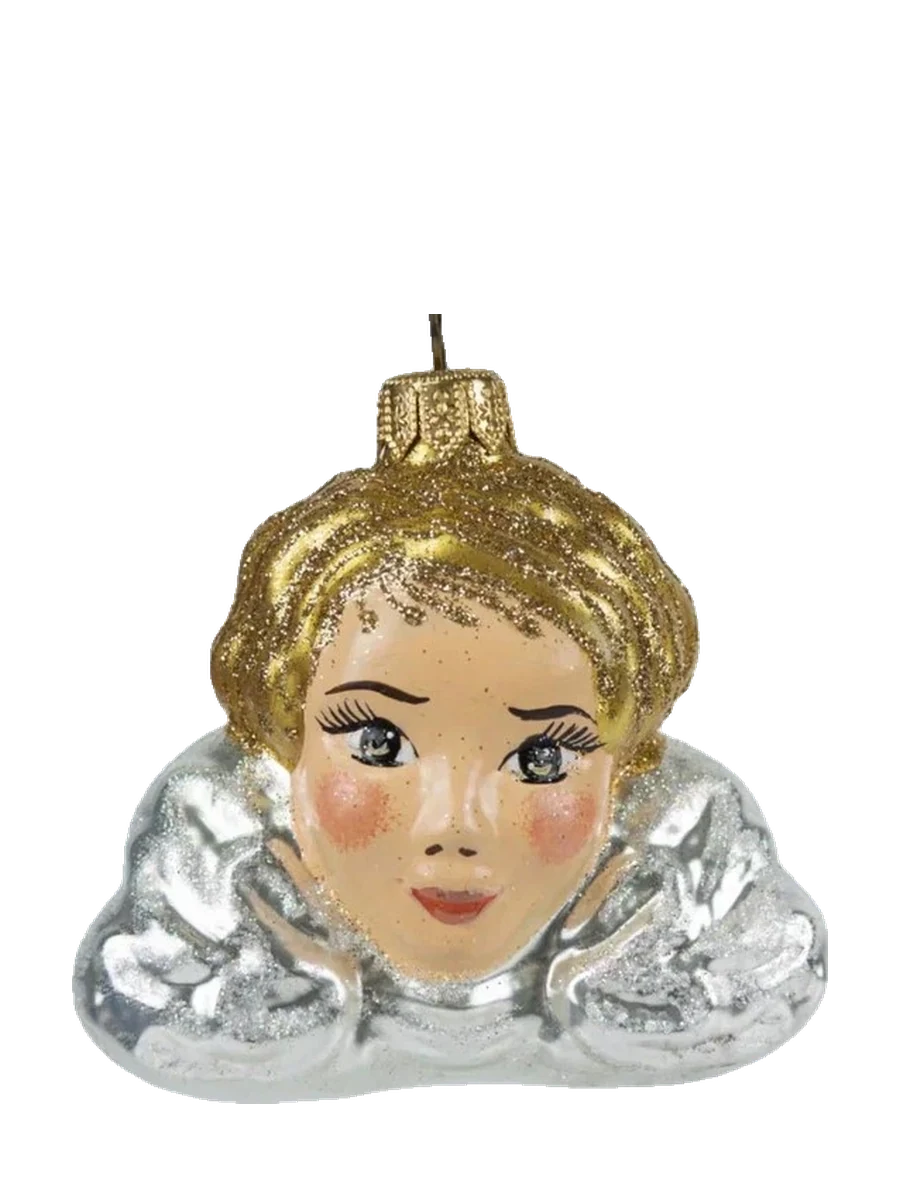
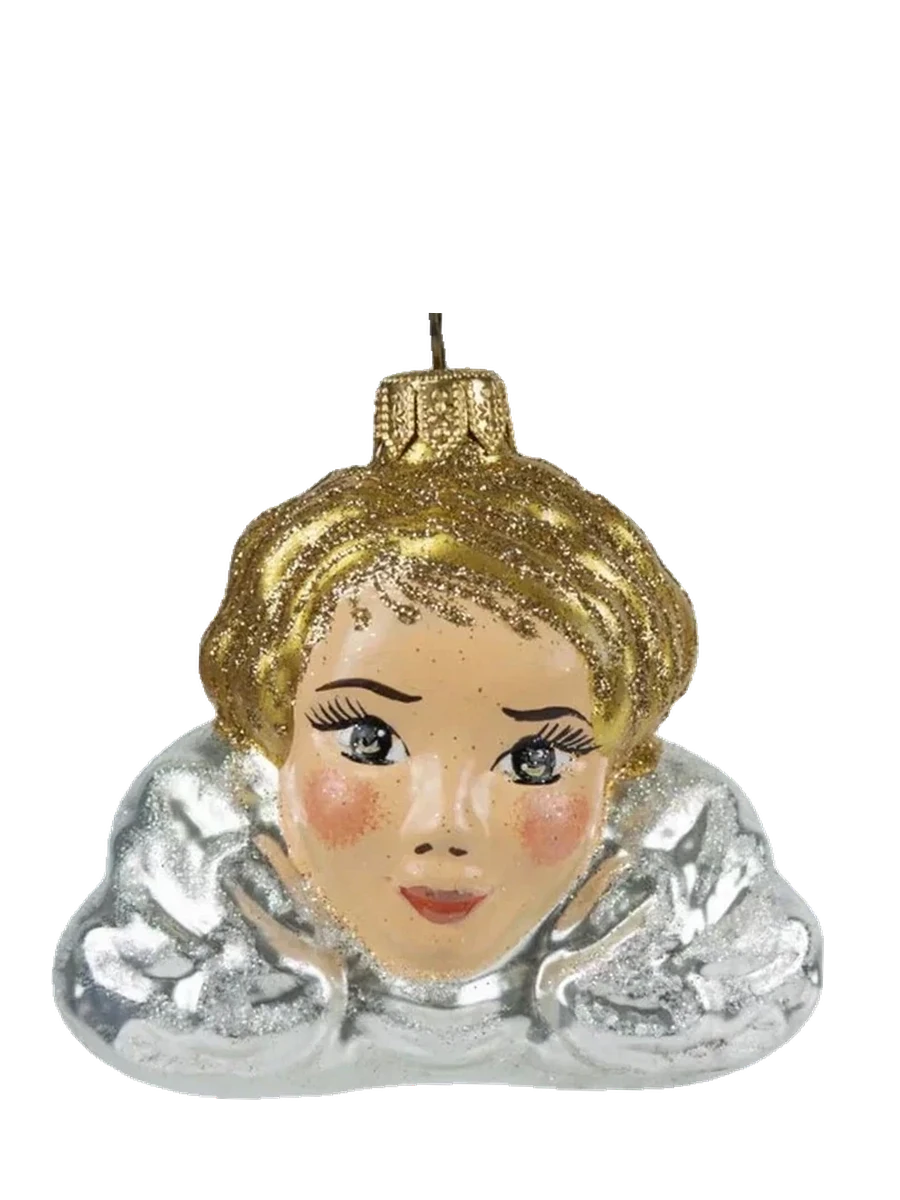
Обновление 06.10 17:36 МСК

Changed region(s): [[0.0311, 0.2775, 0.9333, 0.925]]

diff --git a/index.html b/index.html
@@ -28,7 +28,7 @@
 <link rel="preconnect" href="https://fonts.googleapis.com">
 <link rel="preconnect" href="https://fonts.gstatic.com" crossorigin>
 <link rel="stylesheet" href="https://fonts.googleapis.com/css2?family=Alegreya+Sans:wght@400;600;700&family=Nunito+Sans:wght@400;600&display=swap">
-<link rel="stylesheet" href="style.css?v=0610g">
+<link rel="stylesheet" href="style.css?v=0610h">
 <style>
 :root {
   --шрифт-заголовков: 'Alegreya Sans', 'Segoe UI', sans-serif;  --шрифт-текста: 'Nunito Sans', -apple-system, 'Segoe UI', sans-serif;
@@ -107,7 +107,7 @@
 </script>
 </head>
 <body class="с-липкой-кнопкой">
-<style id="первый-экран-правки">.шапка{height:4.25rem!important}.шапка__лого img{width:auto!important;height:3.25rem!important;border-radius:0!important;box-shadow:none!important;object-fit:contain}@media(min-width:900px){.шапка{height:5rem!important}.шапка__лого img{height:4rem!important}}.карточка__опоры li b{display:block;font:700 1.9em/1.05 var(--шрифт-заголовков);color:var(--цвет-тёплый);margin-bottom:.2em}.карточка__опоры li span{display:block}@media(min-width:900px){#экран-1 .первый-экран__регалии{top:38.5rem!important;bottom:auto!important;right:auto!important;left:clamp(2rem,9vw,11rem)!important;width:auto!important;max-width:34em;background:none!important;border:0!important;box-shadow:none!important;backdrop-filter:none!important;padding:0!important;animation:none!important;transform:none!important}#экран-1 .карточка__имя,#экран-1 .карточка__роль{display:none!important}#экран-1 .карточка__опоры{margin:0!important;gap:2.5em!important;font-size:.9em!important}}#экран-1 .картинка--сцена img{object-fit:cover!important;object-position:center 30%!important;animation:none!important;transform:none!important}@media(max-width:899px){#экран-1 .картинка--сцена::after{display:none!important}#экран-1 .картинка--сцена img{-webkit-mask-image:linear-gradient(to bottom,#000 42%,transparent 76%);mask-image:linear-gradient(to bottom,#000 42%,transparent 76%)}}@media(min-width:900px){.шапка{height:6.5rem!important}.шапка__лого img{height:5.5rem!important}.шапка__лого{font-size:1.1em!important}#экран-1{align-items:flex-start!important;padding-top:10.5rem!important}#экран-1 .картинка--сцена::after{background:linear-gradient(to right,color-mix(in srgb,var(--цвет-тёмный-фон) 92%,transparent) 0%,color-mix(in srgb,var(--цвет-тёмный-фон) 60%,transparent) 42%,transparent 56%)!important}#экран-1 .картинка--сцена picture{display:flex!important;justify-content:center;align-items:center;width:100%!important;height:100%!important;box-sizing:border-box;padding:calc(6.5rem + 2.5rem) 2.5rem 2.5rem calc(clamp(2rem,9vw,11rem) + 37rem + 2.5rem)}#экран-1 .картинка--сцена img{width:auto!important;height:auto!important;max-width:100%!important;max-height:100%!important;min-width:0;min-height:0;object-fit:contain!important;-webkit-mask-image:linear-gradient(to right,transparent 0,#000 14%,#000 86%,transparent 100%),linear-gradient(to bottom,transparent 0,#000 12%,#000 88%,transparent 100%);-webkit-mask-composite:source-in;mask-image:linear-gradient(to right,transparent 0,#000 14%,#000 86%,transparent 100%),linear-gradient(to bottom,transparent 0,#000 12%,#000 88%,transparent 100%);mask-composite:intersect}}@media(min-width:900px){#экран-1 .блок__внутри{width:auto!important;margin-left:clamp(2rem,9vw,11rem)!important;margin-right:0!important}}#экран-1 .первый-экран__действие{flex-direction:column;align-items:stretch;gap:.6em}#экран-1 .кнопка--макс{color:var(--цвет-тёплый);border-color:color-mix(in srgb,var(--цвет-тёплый) 70%,transparent)}@media(min-width:900px){#экран-1 .первый-экран__действие{display:inline-flex;flex-direction:column;align-items:stretch;gap:.75em;margin-bottom:0}#экран-1{align-items:center!important;padding-top:6.5rem!important;padding-bottom:2rem!important}#экран-1 .первый-экран__регалии{position:static!important;top:auto!important;margin-top:2.25rem!important}}#экран-1 .картинка--сцена:not(.картинка--постер) picture{display:none!important}#экран-1 .картинка--постер .ролик-рамка{display:none!important}#экран-1 .ролик-рамка{width:100%;height:100%}#экран-1 .картинка--сцена video{object-fit:cover!important;object-position:center 30%!important}@media(max-width:899px){#экран-1 .картинка--сцена video{-webkit-mask-image:linear-gradient(to bottom,#000 42%,transparent 76%);mask-image:linear-gradient(to bottom,#000 42%,transparent 76%)}}@media(min-width:900px){#экран-1 .ролик-рамка{display:flex;justify-content:center;align-items:center;box-sizing:border-box;padding:calc(6.5rem + 2.5rem) 2.5rem 2.5rem calc(clamp(2rem,9vw,11rem) + 37rem + 2.5rem)}#экран-1 .картинка--сцена video{width:auto!important;height:auto!important;max-width:100%!important;max-height:100%!important;min-width:0;min-height:0;object-fit:contain!important;-webkit-mask-image:linear-gradient(to right,transparent 0,#000 14%,#000 86%,transparent 100%),linear-gradient(to bottom,transparent 0,#000 12%,#000 88%,transparent 100%);-webkit-mask-composite:source-in;mask-image:linear-gradient(to right,transparent 0,#000 14%,#000 86%,transparent 100%),linear-gradient(to bottom,transparent 0,#000 12%,#000 88%,transparent 100%);mask-composite:intersect}}@media(min-width:900px) and (max-height:700px){#экран-1{padding-bottom:.25rem!important}#экран-1 .первый-экран__регалии{margin-top:.9rem!important}#экран-1 .первый-экран__действие{margin-top:1.4rem!important;gap:.5em}#экран-1 .первый-экран__действие .кнопка{padding-block:.6em!important}#экран-1 .ролик-рамка{padding-bottom:1.5rem}}</style>
+<style id="первый-экран-правки">.шапка{height:4.25rem!important}.шапка__лого img{width:auto!important;height:3.25rem!important;border-radius:0!important;box-shadow:none!important;object-fit:contain}@media(min-width:900px){.шапка{height:5rem!important}.шапка__лого img{height:4rem!important}}.карточка__опоры li b{display:block;font:700 1.9em/1.05 var(--шрифт-заголовков);color:var(--цвет-тёплый);margin-bottom:.2em}.карточка__опоры li span{display:block}@media(min-width:900px){#экран-1 .первый-экран__регалии{top:38.5rem!important;bottom:auto!important;right:auto!important;left:clamp(2rem,9vw,11rem)!important;width:auto!important;max-width:34em;background:none!important;border:0!important;box-shadow:none!important;backdrop-filter:none!important;padding:0!important;animation:none!important;transform:none!important}#экран-1 .карточка__имя,#экран-1 .карточка__роль{display:none!important}#экран-1 .карточка__опоры{margin:0!important;gap:2.5em!important;font-size:.9em!important}}#экран-1 .картинка--сцена img{object-fit:cover!important;object-position:center 30%!important;animation:none!important;transform:none!important}@media(max-width:899px){#экран-1 .картинка--сцена::after{display:none!important}#экран-1 .картинка--сцена img{-webkit-mask-image:linear-gradient(to bottom,#000 42%,transparent 76%);mask-image:linear-gradient(to bottom,#000 42%,transparent 76%)}}@media(min-width:900px){.шапка{height:6.5rem!important}.шапка__лого img{height:5.5rem!important}.шапка__лого{font-size:1.1em!important}#экран-1{align-items:flex-start!important;padding-top:10.5rem!important}#экран-1 .картинка--сцена::after{background:linear-gradient(to right,color-mix(in srgb,var(--цвет-тёмный-фон) 92%,transparent) 0%,color-mix(in srgb,var(--цвет-тёмный-фон) 60%,transparent) 42%,transparent 56%)!important}#экран-1 .картинка--сцена picture{display:flex!important;justify-content:center;align-items:center;width:100%!important;height:100%!important;box-sizing:border-box;padding:calc(6.5rem + 2.5rem) 2.5rem 2.5rem calc(clamp(2rem,9vw,11rem) + 37rem + 2.5rem)}#экран-1 .картинка--сцена img{width:auto!important;height:auto!important;max-width:100%!important;max-height:100%!important;min-width:0;min-height:0;object-fit:contain!important;-webkit-mask-image:linear-gradient(to right,transparent 0,#000 14%,#000 86%,transparent 100%),linear-gradient(to bottom,transparent 0,#000 12%,#000 88%,transparent 100%);-webkit-mask-composite:source-in;mask-image:linear-gradient(to right,transparent 0,#000 14%,#000 86%,transparent 100%),linear-gradient(to bottom,transparent 0,#000 12%,#000 88%,transparent 100%);mask-composite:intersect}}@media(min-width:900px){#экран-1 .блок__внутри{width:auto!important;margin-left:clamp(2rem,9vw,11rem)!important;margin-right:0!important}}#экран-1 .первый-экран__действие{flex-direction:column;align-items:stretch;gap:.6em}#экран-1 .кнопка--макс{color:var(--цвет-тёплый);border-color:color-mix(in srgb,var(--цвет-тёплый) 70%,transparent)}@media(min-width:900px){#экран-1 .первый-экран__действие{display:inline-flex;flex-direction:column;align-items:stretch;gap:.75em;margin-bottom:0}#экран-1{align-items:center!important;padding-top:6.5rem!important;padding-bottom:2rem!important}#экран-1 .первый-экран__регалии{position:static!important;top:auto!important;margin-top:2.25rem!important}}#экран-1 .картинка--сцена:not(.картинка--постер) picture{display:none!important}#экран-1 .картинка--постер .ролик-рамка{display:none!important}#экран-1 .ролик-рамка{width:100%;height:100%}#экран-1 .картинка--сцена video{object-fit:cover!important;object-position:center 30%!important}@media(max-width:899px){#экран-1 .картинка--сцена video{-webkit-mask-image:linear-gradient(to bottom,#000 42%,transparent 76%);mask-image:linear-gradient(to bottom,#000 42%,transparent 76%)}}@media(min-width:900px){#экран-1 .ролик-рамка{display:flex;justify-content:center;align-items:center;box-sizing:border-box;padding:calc(6.5rem + 2.5rem) 2.5rem 2.5rem calc(clamp(2rem,9vw,11rem) + 37rem + 2.5rem)}#экран-1 .картинка--сцена video{width:auto!important;height:auto!important;max-width:100%!important;max-height:100%!important;min-width:0;min-height:0;object-fit:contain!important;-webkit-mask-image:linear-gradient(to right,transparent 0,#000 14%,#000 86%,transparent 100%),linear-gradient(to bottom,transparent 0,#000 12%,#000 88%,transparent 100%);-webkit-mask-composite:source-in;mask-image:linear-gradient(to right,transparent 0,#000 14%,#000 86%,transparent 100%),linear-gradient(to bottom,transparent 0,#000 12%,#000 88%,transparent 100%);mask-composite:intersect}}@media(min-width:900px) and (max-height:700px){#экран-1{padding-bottom:.25rem!important}#экран-1 .первый-экран__регалии{margin-top:.9rem!important}#экран-1 .первый-экран__действие{margin-top:1.4rem!important;gap:.5em}#экран-1 .первый-экран__действие .кнопка{padding-block:.6em!important}#экран-1 .ролик-рамка{padding-bottom:1.5rem}}@media(max-width:899px){#экран-1{padding-bottom:2rem!important}}</style>
 <section class="блок блок--первый-экран первый-экран--сцена тёмный фон--пятна" id="экран-1" data-тип="первый-экран" data-схема="сцена" data-ключ-макета="тёмная" data-картинка="фото" style="--добор-затемнения: 0; --добор-высветления: .04"><div class="стык стык--низ" aria-hidden="true" style="--стык-сосед: var(--цвет-тёмный-фон-2, var(--цвет-тёмный-фон))"></div>
   <header class="шапка">
     <a class="шапка__лого" href="#"><img src="img/logo-na-tyomnom.webp" alt="">Людмила Семенова</a>

diff --git a/style.css b/style.css
@@ -1764,7 +1764,7 @@ h2 .хвост-акцент { display: block; font-weight: 600; font-size: .6em;
   #экран-02 .кадр-имя { margin: 12px 4px 2px; font-size: var(--кегль-лид); font-weight: 700; }
   #экран-02 .кадр-что { margin: 0 4px; font-size: var(--кегль-мелкий); line-height: 1.45; }
 
-  #экран-02.тёмный .витрина-фон { background: radial-gradient(ellipse 70% 55% at 50% 45%, color-mix(in srgb, var(--цвет-акцент) 45%, transparent), transparent 70%), radial-gradient(ellipse 60% 10% at 50% 93%, color-mix(in srgb, var(--цвет-тёмный-текст) 16%, transparent), transparent 80%), var(--цвет-тёмный-фон-3);
+  #экран-02.тёмный .витрина-фон { background: radial-gradient(ellipse 70% 55% at 50% 45%, color-mix(in srgb, var(--цвет-акцент) 60%, transparent), transparent 72%), radial-gradient(ellipse 60% 10% at 50% 93%, color-mix(in srgb, var(--цвет-тёмный-текст) 22%, transparent), transparent 80%), color-mix(in srgb, var(--цвет-тёмный-фон-3) 72%, var(--цвет-тёмный-текст) 28%);
       border: 1px solid color-mix(in srgb, var(--цвет-тёмный-текст) 12%, transparent); box-shadow: var(--тень-глубокая); }
   #экран-02.тёмный .выбор button { border-color: color-mix(in srgb, var(--цвет-тёмный-текст) 35%, transparent); color: var(--цвет-тёмный-текст); }
   #экран-02.тёмный .выбор button[aria-pressed="true"] { background: var(--цвет-тёплый-мягкий); border-color: var(--цвет-тёплый-мягкий); color: var(--цвет-акцент-тёмный); }
@@ -1797,6 +1797,7 @@ h2 .хвост-акцент { display: block; font-weight: 600; font-size: .6em;
     #экран-02 .история { min-height: 0; }
     #экран-02 .стрелки { display: none; }
     #экран-02 .плёнка-кадр { flex-basis: 64vw; }
+    #экран-02 { padding-top: 40px; }
   }
 
 /* экран 03 */
